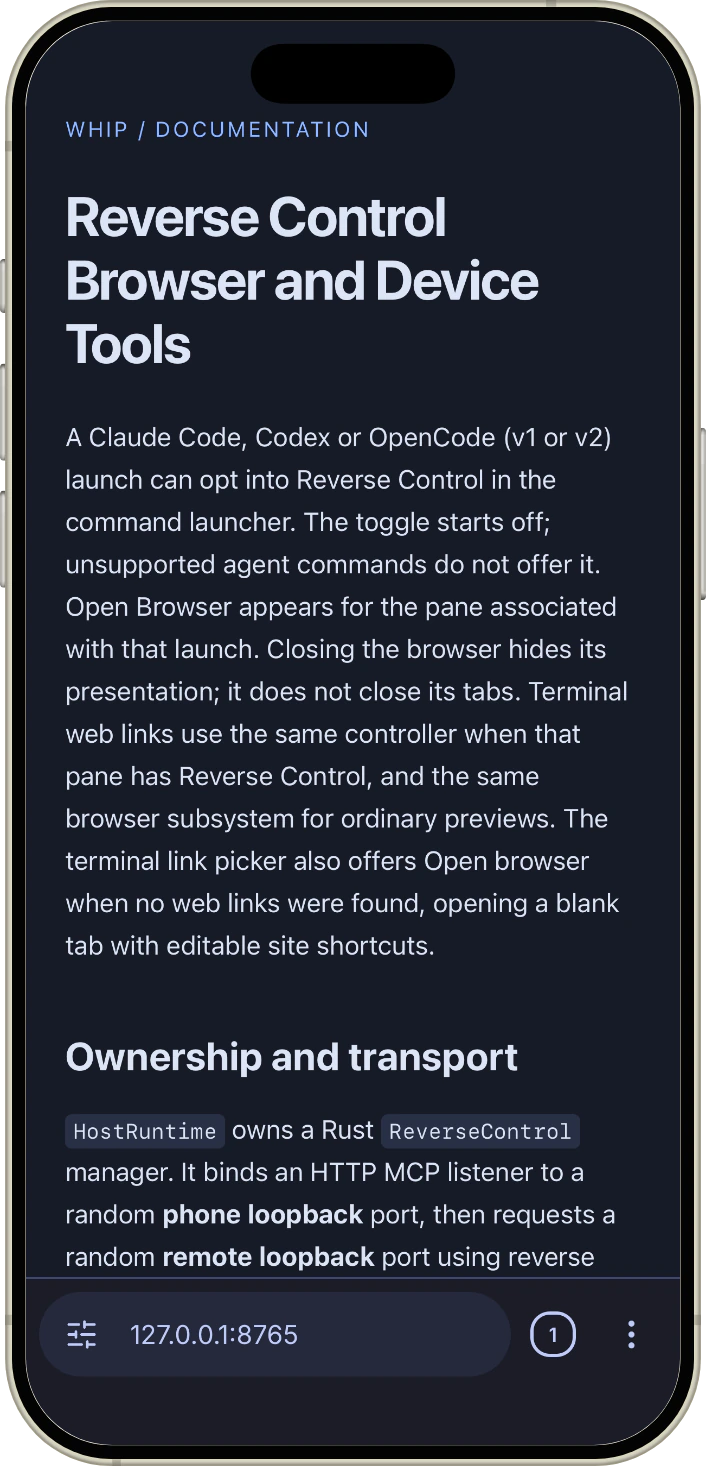
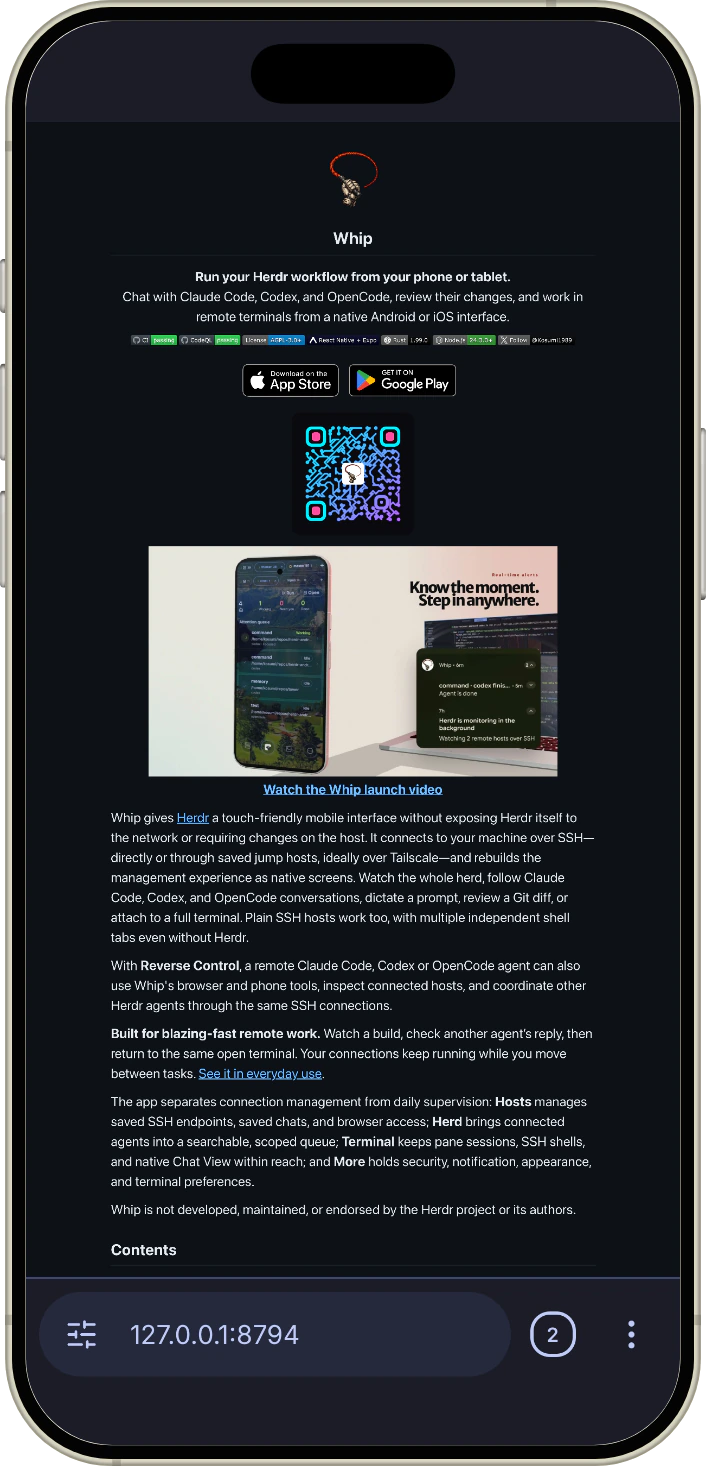
doc: refresh README previews, latency measurements, and host setup

Changed region(s): [[0.0935, 0.0614, 0.9037, 0.9209], [0.0935, 0.0614, 0.187, 0.0921]]

diff --git a/README.md b/README.md
@@ -33,11 +33,11 @@
   <a href="https://youtu.be/dx5s3LmMErE"><strong>Watch the Whip launch video</strong></a>
 </p>
 
-Whip gives [Herdr](https://github.com/herdrdev/herdr) a touch-friendly mobile interface without exposing Herdr itself to the network or requiring changes on the host. It connects to your machine over SSH—directly or through saved jump hosts, ideally over Tailscale—and rebuilds the management experience as native screens. Watch the whole herd, follow Claude Code, Codex, and OpenCode conversations, dictate a prompt, review a Git diff, or attach to a full terminal. Plain SSH hosts work too, with multiple independent shell tabs even without Herdr.
+Whip gives [Herdr](https://github.com/herdrdev/herdr) a touch-friendly mobile interface without exposing Herdr itself to the network. **Whip requires zero extra installation on the Herdr server.** It connects to your machine over SSH—directly or through saved jump hosts, ideally over Tailscale—and rebuilds the management experience as native screens. Watch the whole herd, follow Claude Code, Codex, and OpenCode conversations, dictate a prompt, review a Git diff, or attach to a full terminal. Plain SSH hosts work too, with multiple independent shell tabs even without Herdr.
 
 With **Reverse Control**, a remote Claude Code, Codex or OpenCode agent can also use Whip's browser and phone tools, inspect connected hosts, and coordinate other Herdr agents through the same SSH connections.
 
-**Built for blazing-fast remote work.** Watch a build, check another agent’s reply, then return to the same open terminal. Your connections keep running while you move between tasks. [See it in everyday use](#performance).
+**Measured terminal output display latency:** 31.14 ms median, 59.64 ms p95 on a Pixel 9 Pro (Android release, October 1, 2026). [Measurement details](#performance).
 
 The app separates connection management from daily supervision: **Hosts** manages saved SSH endpoints, saved chats, and browser access; **Herd** brings connected agents into a searchable, scoped queue; **Terminal** keeps pane sessions, SSH shells, and native Chat View within reach; and **More** holds security, notification, appearance, and terminal preferences.
 
@@ -98,48 +98,40 @@ We will not add first-class support for **tmux, Zellij, or Mosh**. This focus le
     <td align="center"><strong>Watch the whole herd</strong><br>Focus a host, switch spaces from the rail, and follow its attention queue.</td>
   </tr>
   <tr>
-    <td align="center"><img src="assets/screenshots/ios/chat-view.webp" alt="Whip native Chat View with a remote agent conversation and tool activity" width="320"></td>
+    <td align="center"><img src="assets/screenshots/ios/chat-details.webp" alt="Whip completed chat turn with its token usage footer and expanded model, timing, and cache details" width="320"></td>
     <td align="center"><img src="assets/screenshots/ios/chat-composer.webp" alt="Whip native chat composer with microphone, attachment, and send controls" width="320"></td>
   </tr>
   <tr>
-    <td align="center"><strong>Read the conversation</strong><br>Follow Claude Code, Codex, and OpenCode in native chat, with rich text, search, diagrams, and tool details.</td>
+    <td align="center"><strong>See what each turn used</strong><br>Inspect the token-usage footer and expand its model, timing, input, output, and cache details.</td>
     <td align="center"><strong>Chat naturally</strong><br>Dictate a draft, paste an image, attach a file, or bring selected text into your next prompt.</td>
   </tr>
   <tr>
     <td align="center"><img src="assets/screenshots/ios/reverse-control.webp" alt="Whip Codex launch sheet with Reverse Control enabled for browser and device tools" width="320"></td>
-    <td align="center"><img src="assets/screenshots/ios/chat-details.webp" alt="Whip completed chat turn with its token usage footer and expanded model, timing, and cache details" width="320"></td>
+    <td align="center"><img src="assets/screenshots/ios/remote-files.webp" alt="Whip remote file browser showing the terminal's working directory over SFTP" width="320"></td>
   </tr>
   <tr>
     <td align="center"><strong>Give agents phone tools</strong><br>Enable Reverse Control when launching an agent so it can use Whip's browser and device tools.</td>
-    <td align="center"><strong>See what each turn used</strong><br>Inspect the token-usage footer and expand its model, timing, input, output, and cache details.</td>
-  </tr>
-  <tr>
-    <td align="center"><img src="assets/screenshots/ios/remote-files.webp" alt="Whip remote file browser showing the terminal's working directory over SFTP" width="320"></td>
-    <td align="center"><img src="assets/screenshots/ios/git-diff.webp" alt="Whip Git diff viewer with highlighted changes, line selection, and context controls" width="320"></td>
-  </tr>
-  <tr>
     <td align="center"><strong>Bring the filesystem with you</strong><br>Browse, transfer, edit, and preview remote files, including large text, Markdown, diagrams, PDF, and media.</td>
+  </tr>
+  <tr>
+    <td align="center"><img src="assets/screenshots/ios/git-diff.webp" alt="Whip Git diff viewer with highlighted changes, line selection, and context controls" width="320"></td>
+    <td align="center"><img src="assets/screenshots/ios/browser.webp" alt="Whip in-app browser displaying a local documentation preview in desktop mode with address, tab, and page controls" width="320"></td>
+  </tr>
+  <tr>
     <td align="center"><strong>Review the changes</strong><br>Read highlighted Git diffs, expand context, and draft questions for the agent from selected lines.</td>
-  </tr>
-  <tr>
-    <td align="center"><img src="assets/screenshots/ios/browser.webp" alt="Whip in-app browser with address, tab, and page controls" width="320"></td>
-    <td align="center"><img src="assets/screenshots/ios/terminal.webp" alt="Whip remote terminal with persistent tabs and mobile input controls" width="320"></td>
-  </tr>
-  <tr>
     <td align="center"><strong>Open the preview</strong><br>Browse public websites or SSH-forwarded local services, keep tabs open, and let agents use Reverse Control.</td>
-    <td align="center"><strong>Work from anywhere</strong><br>Switch between warm Herdr panes or independent SSH shells with controls that adapt to the keyboard.</td>
   </tr>
   <tr>
+    <td align="center"><img src="assets/screenshots/ios/terminal.webp" alt="Whip remote terminal with persistent tabs and mobile input controls" width="320"></td>
     <td align="center"><img src="assets/screenshots/ios/markdown-preview.webp" alt="Whip rendering this project's README with its app artwork, badges, and links" width="320"></td>
-    <td align="center"><img src="assets/screenshots/ios/settings.webp" alt="Whip More screen using glass surfaces over the configured background image" width="320"></td>
   </tr>
   <tr>
+    <td align="center"><strong>Work from anywhere</strong><br>Switch between warm Herdr panes or independent SSH shells with controls that adapt to the keyboard.</td>
     <td align="center"><strong>Read your remote docs</strong><br>Preview the project's README with its images and links directly from the host.</td>
-    <td align="center"><strong>Make Whip yours</strong><br>Use a custom background and glass surfaces, then tune alerts, speech, security, and terminal behavior.</td>
   </tr>
 </table>
 
-Captured from Whip 1.8.6 on an iPhone 17 Pro simulator running iOS 26.5, with a custom background and Rancher glass appearance. See the [capture notes](assets/screenshots/README.md) to refresh them.
+Captured from Whip 1.9.0 (GitHub channel, Release build) on an iPhone 17 Pro simulator running iOS 26.5, with a custom background and glass appearance. See the [capture notes](assets/screenshots/README.md) to refresh them.
 
 ## What you can do
 
@@ -156,9 +148,10 @@ Captured from Whip 1.8.6 on an iPhone 17 Pro simulator running iOS 26.5, with a 
 
 ### Use Chat View
 
-Chat View supports **Claude Code, Codex, and OpenCode (v1 and v2)** panes. Tap the book icon in the terminal controls to replace that terminal with a full-screen, native transcript; tap it again to return to the same warm terminal. Each open terminal remembers its own Terminal or Chat View when you switch between panes.
+Chat View supports **Claude Code, Codex, and OpenCode (v1 and v2)** panes. Tap the book icon in the terminal controls to replace that terminal with a full-screen, native transcript; tap it again to return to the same warm terminal. Each terminal remembers its own Terminal or Chat View across tab switches and app restarts. Offline hosts restore cached Chat when available.
 
-- Read a normalized, OpenCode-style conversation instead of terminal scrollback, including user prompts, Markdown responses, plans, reasoning, live **Thinking** state, token and timing metadata, attachments, and images.
+- Read a normalized, OpenCode-style conversation instead of terminal scrollback, including user prompts, Markdown responses, plans, reasoning, an inline **Working** indicator, token and timing metadata, attachments, and images.
+- Keep the relevant user prompt pinned while reading earlier replies. Tap it to reveal the original message. When you scroll away from live output, a compact activity strip can show the agent's current tool or progress; tap it to return to the latest output and resume following. See [chat interactions](docs/agent-chat-interactions.md) for details.
 - Inspect expandable tool activity without duplicate shell rows. Related read, list, and search operations are grouped; shell commands, output, diagnostics, and changed-file diffs remain available on demand.
 - Render GitHub-flavored Markdown, highlighted code, clickable remote file references, math, Mermaid diagrams, and SVG code blocks on Android and iOS.
 - Search chat and terminal text with inline highlights, inspect per-turn metadata and expandable JSON tool output, and read agent questions and permission notices.
@@ -173,6 +166,7 @@ Chat View supports **Claude Code, Codex, and OpenCode (v1 and v2)** panes. Tap t
 
 - Open the in-app browser from Hosts, or follow a link from a terminal or conversation. Public sites open directly; localhost and private-network services use the selected host's SSH connection.
 - Keep multiple tabs with navigation history. Inactive pages can suspend and restore, and matching terminal links reuse an existing tab.
+- Switch between mobile and desktop browser profiles or choose a custom viewport size. Profile changes reload open pages immediately. Desktop mode uses a wider automatic viewport; custom dimensions take precedence.
 - Download files with the page's login session into the phone's **Downloads** library. Track progress, cancel a transfer, open completed files, and receive completion notifications.
 - Enable Reverse Control to let a supported agent operate browser tabs and phone tools. Ordinary browsing does not require it.
 
@@ -283,11 +277,9 @@ CI also compiles a thin unsigned device app and uploads `whip-ios-unsigned-compi
 
 ## Connect your first host
 
-You need an SSH server on a laptop or server reachable from the mobile device. If Herdr is already installed, confirm the same connection outside Whip first:
-
-```bash
-ssh user@laptop.tailnet.ts.net 'herdr status server --json'
-```
+You need an SSH server on a laptop or server reachable from the mobile device.
+**Whip requires zero extra installation on a host already running Herdr.**
+Enter its SSH details in Whip, or use the optional QR pairing helper below.
 
 ### Pair with a QR code
 
@@ -354,21 +346,18 @@ An unknown server key requires explicit fingerprint approval before Whip stores 
 
 ## Performance
 
-**Quick switches while your agents are busy.** A build is running in
-one terminal while an agent writes a reply in another. Open the agent's Chat
-View, read the reply as it arrives, then return to your build's open terminal.
-Whip keeps the connection running while you move around the app.
+A 20-second capture on a **Pixel 9 Pro**, running an **arm64 Android release**
+on October 1, 2026, recorded 136 terminal updates:
 
-- **Watch work unfold.** Follow build logs, command output, and agent activity as
-  the host sends them.
-- **Pick up where you left off.** Switch between open terminal tabs or back to
-  the Herd queue, then return to the terminal you were using.
-- **Keep reading as replies arrive.** New text and tool activity update the
-  conversation you already have open, without reloading its entire history.
+| Measurement | Median | 95th percentile |
+| --- | ---: | ---: |
+| Terminal output display latency | **31.14 ms** | **59.64 ms** |
 
-Whip keeps terminals connected and reuses loaded conversations so checking on
-another task does not mean starting a new session. For capture results and
-methods, see the [Android performance measurements](docs/android-performance-measurements.md).
+This measures the interval from output reaching the phone to the terminal's
+visible acknowledgement. SSH network round-trip time is separate. These results
+describe the tested build and workload. See the [capture report](docs/android-performance-regression-2026-10-01.md)
+for setup and results, or [Android performance measurements](docs/android-performance-measurements.md)
+for earlier captures and measurement definitions.
 
 ## Architecture
 

diff --git a/docs/readme-update-plan.md b/docs/readme-update-plan.md
@@ -1,0 +1,153 @@
+# README update plan — Whip 1.9.0
+
+Status: README copy and ten iPhone gallery previews refreshed for 1.9.0.
+
+## Baseline and scope
+
+- The last README/gallery refresh is `bff049ef` (October 18, 2026).
+- Its screenshots show Whip 1.8.6 built from `dbfca79d` on the configured
+  iPhone 17 Pro simulator on `mini`, running iOS 26.5.
+- This review targets `88dbfedb`, Whip 1.9.0 (Android version code 232).
+  The installed GitHub-channel arm64 Release simulator app has iOS build number
+  `2`, verified from its built `Info.plist`.
+- There are **25 commits** after the documentation refresh, or **26 commits**
+  after the source commit used for the old screenshots. The extra commit is
+  the documentation refresh itself.
+- Use a ten-screen gallery and the existing iPhone frames. Refresh the
+  feature copy, screenshots, captions, and capture provenance together.
+
+Reproduce the review with:
+
+```sh
+git log --reverse --oneline bff049ef..88dbfedb
+git diff --stat bff049ef..88dbfedb
+```
+
+## Changes that affect the README
+
+| Change | Source commits | Planned documentation change |
+| --- | --- | --- |
+| Pinned prompt context and live activity | `5c9b2c20`, `0c3630d2` | Explain the pinned prompt, inline **Working** indicator, and the contextual activity strip shown while reading older history. Link to the interaction guide. |
+| Persistent Chat/Terminal selection | `c2c50b9c` | Extend the existing per-terminal preference wording to cover app restarts and cached Chat for offline hosts. |
+| Browser desktop mode | `041e957e` | Add that changing the browser profile reloads open pages immediately; desktop mode uses a wider automatic viewport, and custom sizes override it. |
+| Glass surfaces and readable previews | `5cc1f0a6`, `e01d0296`, `2cc88656`, `e1ab2433`, `e901a38f` | Replace captures of the composer, remote file manager, and preview surfaces. Describe the appearance through the screenshots rather than implementation details. |
+| Updated navigation/status icons and thumbnails | `9082d6cc`, `60f4cd59`, `6ea1e883`, `1f3a0058` | Refresh Herd, Hosts, Terminal, and image-bearing chat captures so the gallery matches the current UI. |
+| Launch presentation | `41f2ff91`, `c247358b`, `f104c599` | Verify launch during installation. The static gallery does not need an additional launch image. |
+| Connection/runtime improvements, Android display/packaging, and validation fixes | `37c2774a`, `7f6b9e82`, `f86dec62`, `dcff166a`, `b042b5d4`, `8ac64192` | Check the affected screens for regressions. Show the published terminal latency measurements with their capture date, device, and measurement boundary; these commits do not supply new measurements. |
+| Version | `88dbfedb` | Update the capture version, source commit, and build number after verifying the installed app. |
+
+The behavior descriptions above follow the final source at `88dbfedb`, including
+the later refinements to the original feature commits.
+
+## README copy edits
+
+1. In **Use Chat View**, replace the generic live **Thinking** wording with
+   the current inline **Working** state. Add a concise bullet for the pinned
+   prompt and returning to live output from the activity strip while reading
+   history. The strip appears only when useful context is available and hides
+   near the latest output.
+2. Keep the existing turn-details caption and automatic Voice announcements
+   paragraph.
+3. Update the per-terminal Chat/Terminal paragraph to say the selection survives
+   app restarts. Mention cached offline Chat without promising all history is
+   available offline.
+4. Add one browser bullet for mobile/desktop profiles and custom viewport sizes.
+5. Use **See what each turn used** as the only Chat View preview, paired with
+   the normal composer. Keep the response-details caption focused on turn
+   metadata. Omit the separate pinned-prompt and appearance previews.
+6. Replace the gallery's 1.8.6 capture note with the verified 1.9.0 build details.
+   Link the new interaction text to [the interaction guide](agent-chat-interactions.md).
+7. Replace the generic performance workflow text with the October 1 Pixel 9 Pro
+   measurements: 31.14 ms median and 59.64 ms p95 terminal output display latency.
+   Link the capture report and distinguish display latency from SSH round-trip time.
+
+## Capture plan
+
+Build and update the configured simulator in place from an isolated worktree
+under `/Users/kosumi/repos`. Use `nix develop`, a thin `aarch64-apple-ios-sim`
+Rust bridge, and an arm64 Release simulator app with embedded JavaScript. Use
+the requested **GitHub distribution channel**
+(`WHIP_DISTRIBUTION_CHANNEL=github`) and Metro's single-worker build setting
+(`--max-workers 1`). Preserve the simulator's existing Keychain access group
+and saved app data, as described in [the capture notes](../assets/screenshots/ios/README.md).
+
+The previous capture build used local developer Rancher appearance. Verify the
+appearance available in the GitHub channel before capture, and document its
+actual membership and appearance settings in the refreshed capture notes.
+
+The prepared build worktree is
+`mini:/Users/kosumi/repos/whip-readme-20261019-88dbfedb`. It targets the same
+iPhone 17 Pro simulator, `35AF86B7-DC94-48B9-8215-82C9DE8E08F7`.
+
+Use the existing custom background, glass appearance, simulator dimensions,
+and safe demo content consistently across the ten replacement captures.
+Keep private host details, credentials, and unrelated conversations out of
+new captures.
+
+| Priority | Existing asset | Replacement scene |
+| --- | --- | --- |
+| 1 | `chat-details.webp` | A completed response with its token footer and expanded model/timing/cache details. |
+| 1 | `chat-composer.webp` | The normal composer with an unsent draft, attachment, microphone, and send controls. |
+| 1 | `remote-files.webp` | A populated remote directory showing the current frosted surface and readable file rows. |
+| 1 | `git-diff.webp` | A real tracked-file diff with the current preview opacity and useful highlighted changes. Verify tracked diffs on the saved fish host; the previous capture notes report a failure here. |
+| 1 | `markdown-preview.webp` | The refreshed README rendered from the host, with images and links loaded. Capture this after updating the README copy. |
+| 2 | `hosts.webp` | Saved hosts with live connection state and current status icons. |
+| 2 | `herd.webp` | The same thinker/Whip scope, both rails visible, and current agent icons. |
+| 2 | `terminal.webp` | A useful shell session with the current navigation and keyboard controls. |
+| 2 | `browser.webp` | A loaded local preview in desktop mode with browser controls visible. Verify the profile change immediately reloads open pages. |
+| 2 | `reverse-control.webp` | An unsent supported-agent launch draft with Reverse Control enabled. |
+
+First capture and review the priority 1 screens. Then refresh the remaining
+screens to keep the whole gallery on the same build. For chat, inspect both
+the latest-output and scrolled-history states before selecting the gallery
+image. Verify that search takes precedence over pinned context and the activity
+strip does not cover controls.
+
+Store raw 1206×2622 PNGs in the ignored `.codex-readme-raw/1.9.0/` directory and run:
+
+```sh
+nix develop -c npm run generate:readme-phone-mockups -- --ios .codex-readme-raw/1.9.0
+```
+
+The existing generator produces transparent 706×1466 WebPs. Keep frame
+attribution and licensing in the capture notes.
+
+## Delivery and validation
+
+1. Update `README.md`, the ten gallery assets under `assets/screenshots/ios/`, and
+   `assets/screenshots/ios/README.md`. Change the parent capture notes only if
+   the workflow needs clarification.
+2. Record the exact source commit, version/build, simulator/runtime, appearance,
+   and any capture limitation. Recheck the old fish-host Git issue and remove
+   that caveat only if a tracked-file diff succeeds.
+3. Inspect every framed image for clipping, loading states, overlays, private
+   content, and legibility. Confirm the README's paths, anchors, alt text, and
+   two-column gallery render correctly at narrow and desktop widths.
+4. Run `git diff --check` and review the final diff. Use screenshot inspection
+   and documentation checks for this change; application tests are needed only
+   if resolving a discovered issue requires application code changes.
+
+## Completed refresh
+
+- Installed and launched the GitHub-channel arm64 Release build in place,
+  preserving saved hosts, background, chat data, and Keychain access.
+- Updated the feature copy, ten framed gallery previews, captions, and capture
+  notes. The Chat View preview shows a completed turn's usage and details;
+  pinned context and live activity remain described in the feature copy and
+  interaction guide.
+- Verified ten unique gallery paths, nonempty alt text, local README
+  targets, and transparent 706×1466 WebP output. Checked the rendered gallery at
+  desktop and phone widths. `git diff --check` passes.
+- Tracked-file diffs still fail on the saved fish host. The Git image instead
+  shows the newly added plan's working-tree diff with a selected line. The
+  capture notes retain the limitation for a separate fix.
+- Cleared the unsent composer draft and closed the temporary browser and shell
+  tabs after capture. Restored both saved full-screen settings and the mobile
+  browser profile with its automatic viewport.
+
+Suggested commit:
+
+```sh
+git add README.md assets/screenshots/README.md assets/screenshots/ios docs/readme-update-plan.md
+git cm "doc: refresh README and iPhone previews for 1.9.0"
+```

diff --git a/assets/screenshots/ios/README.md b/assets/screenshots/ios/README.md
@@ -1,8 +1,8 @@
 # iOS README previews
 
-This directory contains screenshots of Whip 1.8.6 captured on the
-previously configured iPhone 17 Pro simulator on `mini`, running iOS 26.5.
-The local ARM64 simulator build uses commit `dbfca79d`. It retains the saved
+The gallery uses screenshots of Whip 1.9.0 (iOS build 2) captured on the
+configured iPhone 17 Pro simulator on `mini`, running iOS 26.5. The GitHub-channel
+arm64 Release simulator build uses commit `88dbfedb`. It retains the saved
 background image, glass mode, and developer Rancher appearance. These are actual
 app screens inside iPhone mockups, encoded as transparent 706×1466 WebP images.
 The iPhone frame comes from `@sneas/telephone`; its screen opening is fitted to
@@ -12,14 +12,24 @@ Dynamic Island is retained, and the frame's synthetic status UI is removed.
 The Herd capture focuses on `thinker` and its Whip space so both rails are
 visible. The Markdown preview opens the repository's root `README.md`.
 `reverse-control.webp` shows an unsent Codex launch draft with Reverse Control
-enabled. `chat-details.webp` shows a completed turn's token footer and details.
+enabled. `chat-details.webp` is the gallery's Chat View preview and shows a
+completed turn's token footer and details. The normal composer contains an
+unsent README-review draft, cleared after capture.
 
-The browser preview shows the repository's Reverse Control documentation served
-locally on `mini` at `http://127.0.0.1:8765`.
+The terminal preview shows read-only Git history and the README change summary
+in a temporary shell tab, closed after capture.
+
+The browser preview shows this README served locally on `mini` at
+`http://127.0.0.1:8794`, using Desktop WebKit with the automatic viewport.
 
 Update the app in place with `xcrun simctl install` to retain its hosts, keys,
-background image, and preferences. Use a local development distribution so
-the simulator's saved developer membership setting applies.
+background image, and preferences. Build with
+`WHIP_DISTRIBUTION_CHANNEL=github` and an embedded production JavaScript bundle.
+Use Metro's `--max-workers 1` setting for this Nix/macOS build environment.
+
+For these captures, app and terminal full-screen mode are disabled so the
+status bar and Dynamic Island do not cover navigation or pinned chat context.
+Restore the simulator's saved full-screen preferences after capture.
 
 The configured simulator's existing Keychain access group is
 `52863FPC7A.io.github.kaminarios.whip`. Keep that group in the simulator
@@ -42,11 +52,11 @@ xcrun simctl io 35AF86B7-DC94-48B9-8215-82C9DE8E08F7 \
   screenshot build/readme/screenshots/hosts.png
 ```
 
-Copy the raw 1206×2622 PNGs to `.codex-readme-raw/` in the local checkout, then
+Copy the raw 1206×2622 PNGs to `.codex-readme-raw/1.9.0/` in the local checkout, then
 run the shared mockup generator with its iPhone preset:
 
 ```sh
-nix develop -c npm run generate:readme-phone-mockups -- --ios .codex-readme-raw
+nix develop -c npm run generate:readme-phone-mockups -- --ios .codex-readme-raw/1.9.0
 ```
 
 The iPhone preset preserves the raw PNGs outside version control. To regenerate
@@ -54,6 +64,7 @@ one image, append its base name, for example `herd`. Update the gallery captions
 and build information when replacing the previews. Frame attribution and the
 MIT license are in [the parent capture notes](../README.md).
 
-During this refresh, tracked-file diffs on the host with a `fish` login shell
-returned `HostRuntimeError.GitFailure`. The Git preview uses this newly added
-capture-notes file; the tracked-file error needs separate investigation.
+Tracked-file diffs on the host with a `fish` login shell still return
+`HostRuntimeError.GitFailure` in this build. The Git preview shows the new
+`docs/readme-update-plan.md` working-tree diff with a line selected. The
+tracked-file error needs separate investigation.

diff --git a/assets/screenshots/README.md b/assets/screenshots/README.md
@@ -1,7 +1,7 @@
 # README screenshots
 
 The current gallery uses [iOS simulator captures](ios/README.md) inside iPhone
-mockups, including the original glass mode and custom background configured on
+mockups, including the glass appearance and custom background configured on
 `mini`. The older Android mockups remain available below. Both device frames
 come from [`@sneas/telephone`](https://github.com/sneas/telephone) under the MIT
 license reproduced below.
